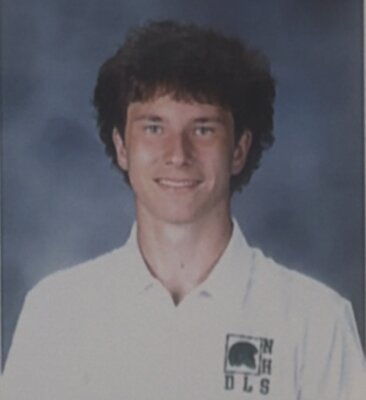
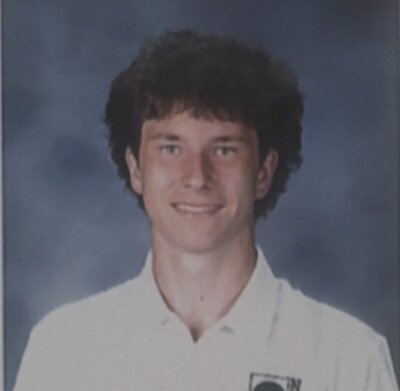
feat: update headshot and adjust positioning
- Replace headshot with new optimized image
- Optimize new headshot from 421KB to 13KB (97% reduction)
- Adjust headshot positioning in circular frame:
  * Add object-fit: cover for proper image scaling
  * Add object-position: center 60% to lower image by 10%
  * Improves framing and visual balance
- Enhanced visual presentation for better professional appearance

diff --git a/soccer-recruiting-email-final.html b/soccer-recruiting-email-final.html
@@ -72,6 +72,8 @@
             width: 107px;
             height: 107px;
             border: 3px solid white;
+            object-fit: cover;
+            object-position: center 60%;
         }
         
         .sidebar {
